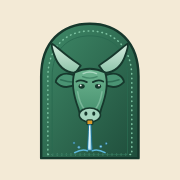
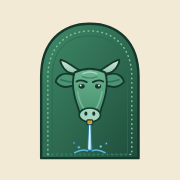
Turet: corna più piccole
Claude-Session: https://claude.ai/code/session_01QH8fKT3C3DcU77kC9fZ5n5

Changed region(s): [[0.2778, 0.2222, 0.4722, 0.4167], [0.5278, 0.2222, 0.7222, 0.4167]]

diff --git a/sw.js b/sw.js
@@ -1,8 +1,8 @@
 /* Turet — service worker: salva il «guscio» dell'app (pagina, stili, script, Leaflet, icone) per aprirla anche con poca rete.
  * Mappe, dati dei turet e percorsi arrivano sempre da internet e non vengono mai salvati qui (i dati dei turet li ricorda l'app in localStorage).
  * Per forzare l'aggiornamento delle copie salvate cambia VERSION. */
-const VERSION = 'turet-v8';
-const SHELL = ['./', 'index.html', 'css/app.css?v=8', 'js/i18n.js?v=8', 'js/geo.js?v=8', 'js/app.js?v=8', 'vendor/leaflet/leaflet.js', 'vendor/leaflet/leaflet.css', 'img/icon-192.png', 'img/toret.svg', 'manifest.webmanifest'];
+const VERSION = 'turet-v9';
+const SHELL = ['./', 'index.html', 'css/app.css?v=9', 'js/i18n.js?v=9', 'js/geo.js?v=9', 'js/app.js?v=9', 'vendor/leaflet/leaflet.js', 'vendor/leaflet/leaflet.css', 'img/icon-192.png', 'img/toret.svg', 'manifest.webmanifest'];
 
 self.addEventListener('install', (e) => { e.waitUntil(caches.open(VERSION).then((c) => c.addAll(SHELL)).then(() => self.skipWaiting())); });
 self.addEventListener('activate', (e) => {

diff --git a/index.html b/index.html
@@ -13,7 +13,7 @@
   <meta name="apple-mobile-web-app-capable" content="yes">
   <meta name="apple-mobile-web-app-title" content="Turet">
   <link rel="stylesheet" href="vendor/leaflet/leaflet.css">
-  <link rel="stylesheet" href="css/app.css?v=8">
+  <link rel="stylesheet" href="css/app.css?v=9">
 </head>
 <body>
   <div id="splash" aria-hidden="true"><img src="img/toret.svg" alt="" width="180" height="216"><p>Turet</p></div>
@@ -80,8 +80,8 @@
 
   <noscript><p class="noscript">JavaScript is required · Per usare la mappa serve JavaScript · JavaScript est nécessaire.</p></noscript>
   <script src="vendor/leaflet/leaflet.js"></script>
-  <script src="js/i18n.js?v=8"></script>
-  <script src="js/geo.js?v=8"></script>
-  <script src="js/app.js?v=8"></script>
+  <script src="js/i18n.js?v=9"></script>
+  <script src="js/geo.js?v=9"></script>
+  <script src="js/app.js?v=9"></script>
 </body>
 </html>
